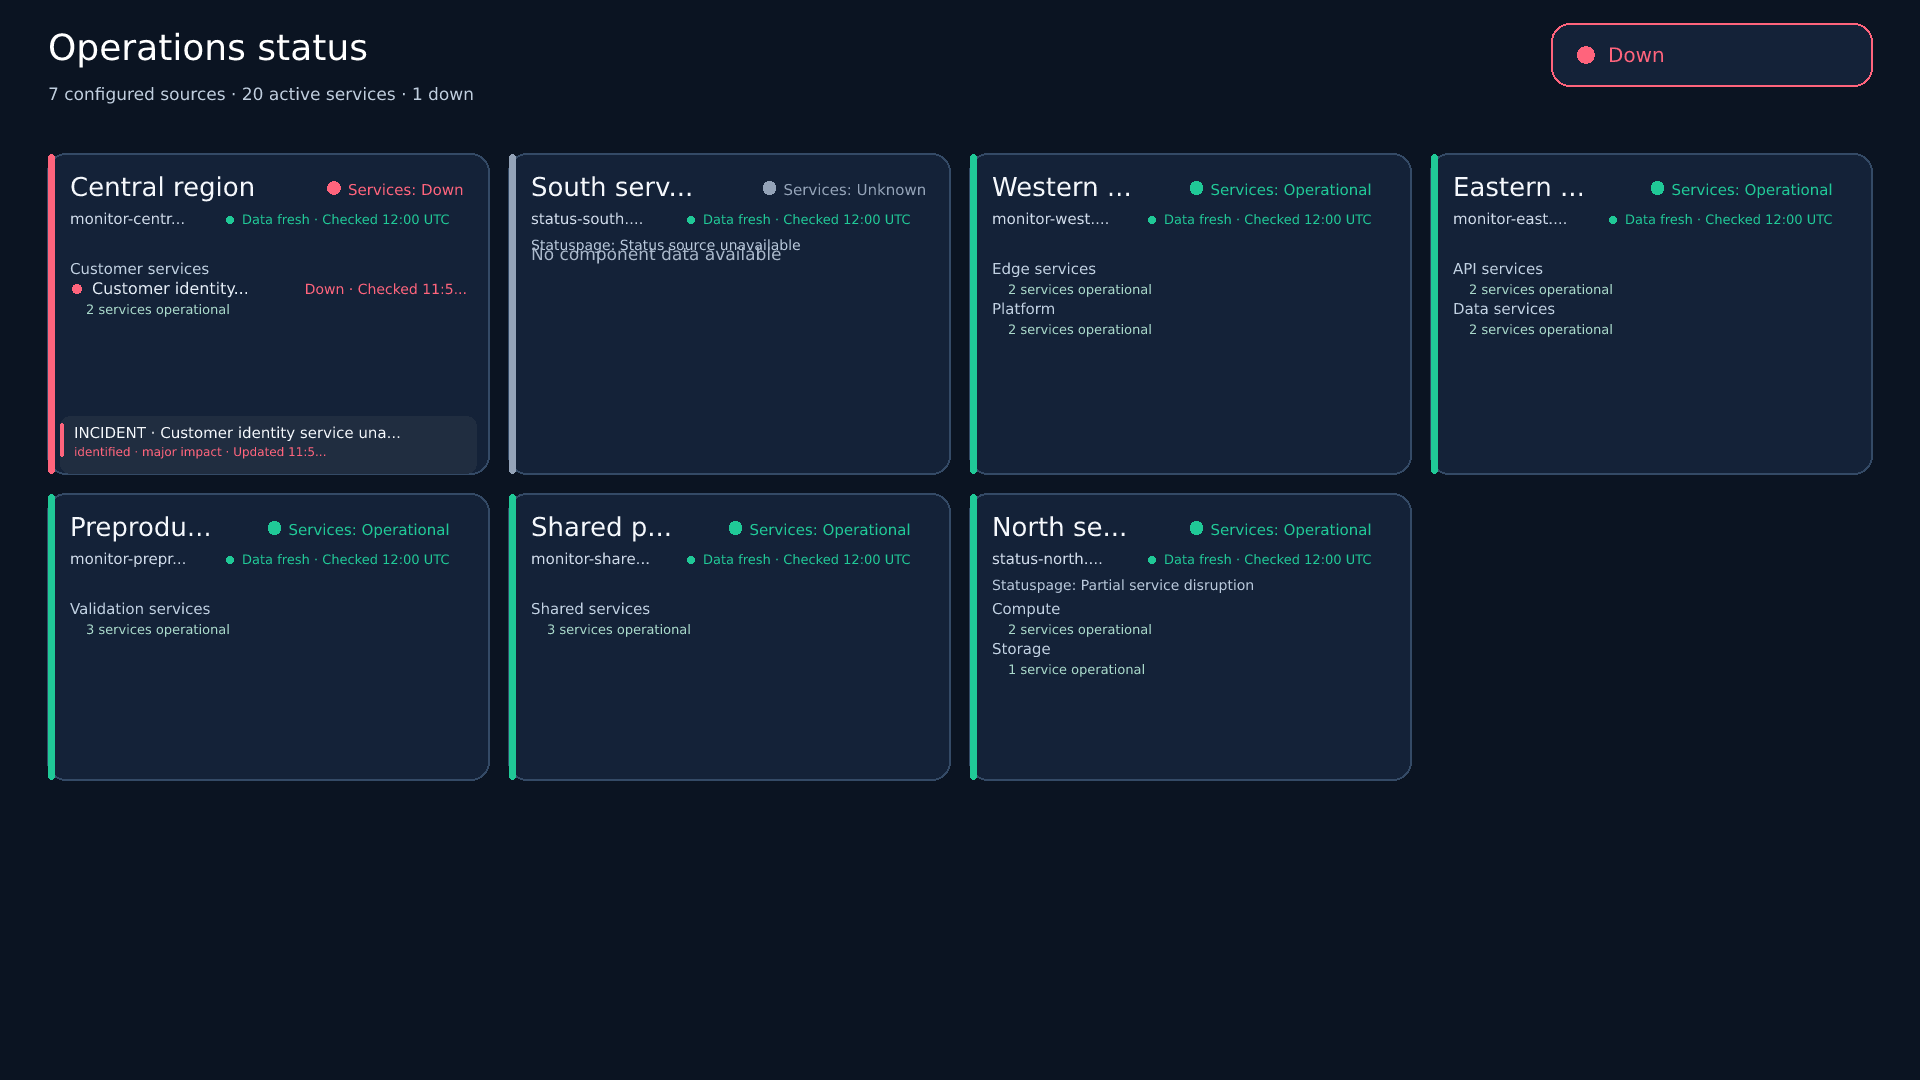
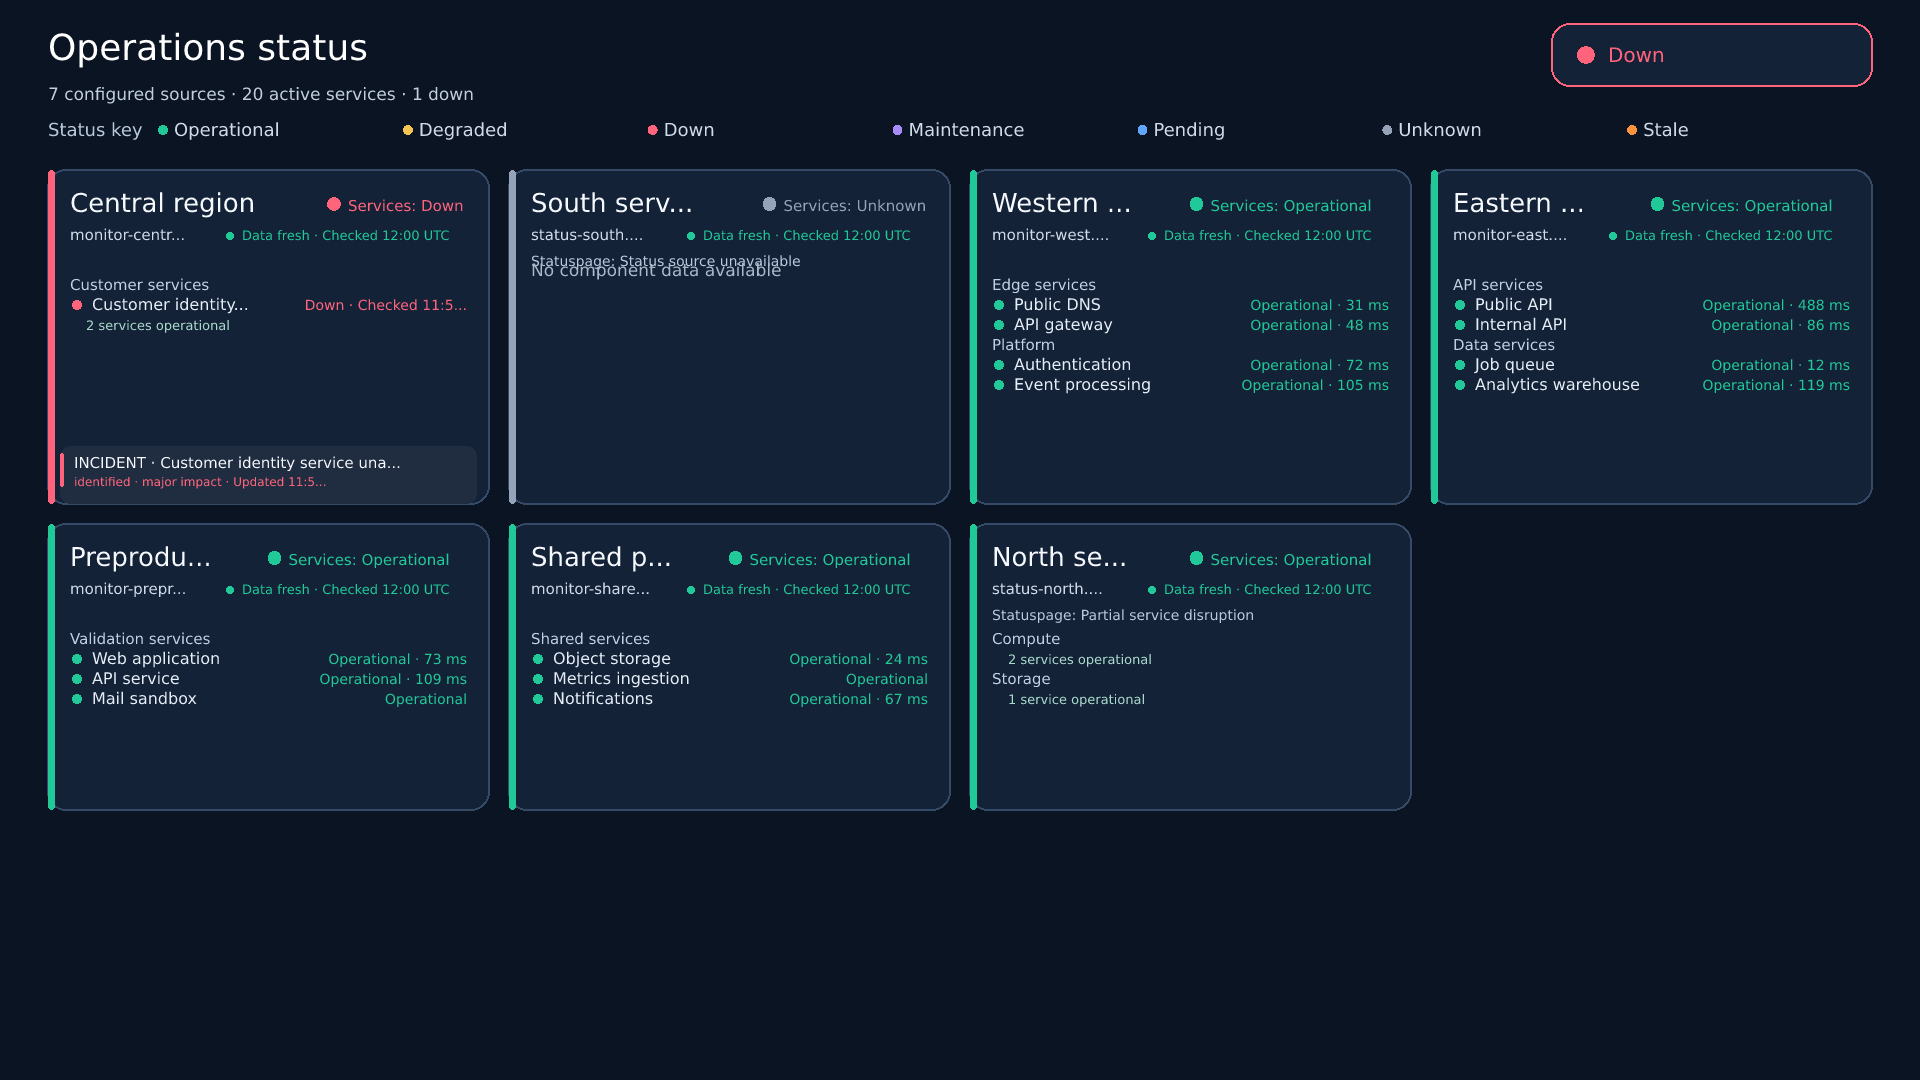
Improve Uptime Kuma dashboard readability

diff --git a/workers/device-sync/src/api-dashboard/render.ts b/workers/device-sync/src/api-dashboard/render.ts
@@ -1,6 +1,6 @@
 import { Resvg, initWasm } from "@resvg/resvg-wasm";
 import { healthLabel, overallHealth, type DashboardSource, type Health } from "./model.ts";
-import { svgEventPanel, svgFreshnessBadge, svgGroupSummary, svgPanel, svgServiceRow, svgStatusBadge, svgStatusDot, svgText, truncateText, type SvgDashboardEvent } from "./render-components.ts";
+import { svgEventPanel, svgFreshnessBadge, svgGroupSummary, svgHealthLegend, svgPanel, svgServiceRow, svgStatusBadge, svgStatusDot, svgText, truncateText, type SvgDashboardEvent } from "./render-components.ts";
 
 const MAX_PIXELS = 3840 * 2160;
 const MAX_PNG_BYTES = 32 * 1024 * 1024;
@@ -69,6 +69,15 @@ function buildServiceRows(source: DashboardSource): ServiceDisplayRow[] {
       issues.sort((a, b) => healthOrder(a.status) - healthOrder(b.status) || (a.componentOrder ?? 0) - (b.componentOrder ?? 0));
       for (const component of issues) rows.push({ kind: "service", component });
       if (operationalCount) rows.push({ kind: "summary", count: operationalCount, history: recentGroupChecks(components.filter((component) => component.status === "operational"), source.fetchedAt) });
+    } else if (source.provider === "uptime-kuma" && components.length <= 16 && components.some((component) => component.history?.length)) {
+      rows.push({ kind: "summary", count: operationalCount, history: recentGroupChecks(components, source.fetchedAt) });
+      for (const component of components) rows.push({ kind: "service", component });
+    } else if (source.provider === "uptime-kuma" && components.length <= 16) {
+      for (const component of components) rows.push({ kind: "service", component });
+    } else if (source.provider === "uptime-kuma") {
+      const visible = components.slice(0, 16);
+      for (const component of visible) rows.push({ kind: "service", component });
+      rows.push({ kind: "summary", count: components.length - visible.length, history: recentGroupChecks(components.slice(visible.length), source.fetchedAt) });
     } else rows.push({ kind: "summary", count: operationalCount, history: recentGroupChecks(components, source.fetchedAt) });
   };
   const seenServices = new Set<string>();
@@ -186,9 +195,12 @@ function card(source: DashboardSource, x: number, y: number, width: number, heig
     const changedTime = formatClock(row.component.statusChangedAt);
     const sampledTime = formatClock(row.component.sampledAt);
     const stateChangeTime = changedTime && ["down", "degraded", "maintenance"].includes(status) ? changedTime : undefined;
-    const statusMeta = stateChangeTime ? `Since ${stateChangeTime}` : sampledTime ? `Checked ${sampledTime}` : undefined;
+    const statusMeta = [
+      stateChangeTime ? `Since ${stateChangeTime}` : status !== "operational" && sampledTime ? `Checked ${sampledTime}` : undefined,
+      typeof row.component.latencyMs === "number" && Number.isFinite(row.component.latencyMs) ? `${Math.round(row.component.latencyMs)} ms` : undefined,
+    ].filter(Boolean).join(" · ") || undefined;
     const right = x + width - pad;
-    svg += svgServiceRow({ x: left, y: cy, right, scale, name, status: statusText, color, statusMeta, compact });
+    svg += svgServiceRow({ x: left, y: cy, right, scale, name, status: statusText, color, statusMeta, compact, showStatus: true });
   });
   if (hiddenServices || hiddenGroups) {
     const message = [hiddenGroups ? `${hiddenGroups} more groups` : "", hiddenServices ? `${hiddenServices} more services` : ""].filter(Boolean).join(" · ");
@@ -208,7 +220,7 @@ export function dashboardSVG(sources: DashboardSource[], width = 1920, height = 
   const scale = Math.min(width / 1920, height / 1080);
   const pad = 48 * scale;
   const gap = 20 * scale;
-  const headerH = 154 * scale;
+  const headerH = 170 * scale;
   const columns = Math.min(sources.length || 1, 4, Math.max(1, Math.floor((width - 2 * pad + gap) / 430)));
   const cardW = (width - 2 * pad - gap * (columns - 1)) / columns;
   const rows = Math.ceil(sources.length / columns);
@@ -242,6 +254,7 @@ export function dashboardSVG(sources: DashboardSource[], width = 1920, height = 
   const summary = `${sources.length} configured ${sources.length === 1 ? "source" : "sources"} · ${totalServices} active ${totalServices === 1 ? "service" : "services"}${disabledSources ? ` · ${disabledSources} disabled ${disabledSources === 1 ? "source" : "sources"}` : ""} · ${reportedIssues.length ? reportedIssues.join(" · ") : healthySummary}`;
   svg += `<text x="${pad}" y="${100 * scale}" fill="#c0cede" font-family="Ribbon Sans" font-size="${17 * scale}">${svgText(summary)}</text>`;
   svg += svgStatusBadge(width - pad - 320 * scale, 24 * scale, 320 * scale, 62 * scale, scale, healthLabel[overall], colors[overall]);
+  svg += svgHealthLegend(pad, 136 * scale, width - 2 * pad, scale);
   if (staleSources) svg += `<text x="${width - pad - 320 * scale}" y="${112 * scale}" fill="#ffbd78" font-family="Ribbon Sans" font-size="${15 * scale}" font-weight="700">${staleSources} source${staleSources === 1 ? "" : "s"} stale or unavailable</text>`;
   if (!sources.length) svg += `<text x="${pad}" y="${(headerH + 45 * scale)}" fill="#c0cede" font-family="Ribbon Sans" font-size="${20 * scale}">No status sources are configured.</text>`;
   orderedSources.forEach((source, index) => {

diff --git a/workers/device-sync/src/api-dashboard/render-components.ts b/workers/device-sync/src/api-dashboard/render-components.ts
@@ -11,6 +11,25 @@ export function svgStatusDot(cx: number, cy: number, radius: number, color: stri
   return `<circle cx="${cx}" cy="${cy}" r="${radius}" fill="${svgText(color)}"/>`;
 }
 
+const healthLegendItems = [
+  ["Operational", "#20c997"], ["Degraded", "#f6c453"], ["Down", "#ff647c"],
+  ["Maintenance", "#a78bfa"], ["Pending", "#60a5fa"], ["Unknown", "#94a3b8"], ["Stale", "#fb923c"],
+] as const;
+
+/** Shared, visible status key for dashboards that use color to encode health. */
+export function svgHealthLegend(x: number, y: number, width: number, scale: number): string {
+  const s = (value: number) => value * scale;
+  const labelWidth = s(110);
+  const itemWidth = (width - labelWidth) / healthLegendItems.length;
+  let result = `<g role="group" aria-label="Status key"><text x="${x}" y="${y}" fill="#b9c9dc" font-size="${s(18)}" font-weight="700">Status key</text>`;
+  healthLegendItems.forEach(([label, color], index) => {
+    const itemX = x + labelWidth + index * itemWidth;
+    result += svgStatusDot(itemX + s(5), y - s(6), s(5), color);
+    result += `<text x="${itemX + s(16)}" y="${y}" fill="#d0dbea" font-size="${s(18)}">${label}</text>`;
+  });
+  return `${result}</g>`;
+}
+
 export function svgPanel(x: number, y: number, width: number, height: number, scale: number, accentColor: string): string {
   return `<rect x="${x}" y="${y}" width="${width}" height="${height}" rx="${18 * scale}" fill="#142238" stroke="#344a66" stroke-width="${2 * scale}"/><rect x="${x}" y="${y}" width="${7 * scale}" height="${height}" rx="${4 * scale}" fill="${svgText(accentColor)}"/>`;
 }
@@ -24,9 +43,9 @@ export function svgFreshnessBadge(x: number, y: number, scale: number, label: st
   return `${svgStatusDot(x, y - 4 * scale, 4 * scale, color)}<text x="${x + 12 * scale}" y="${y}" fill="${svgText(color)}" font-size="${13 * scale}" font-weight="700">${svgText(label)}</text>`;
 }
 
-export function svgServiceRow(input: { x: number; y: number; right: number; scale: number; name: string; status: string; color: string; statusMeta?: string; compact?: boolean }): string {
-  const { x, y, right, scale, name, status, color, statusMeta, compact = false } = input;
-  const statusLabel = status === "Operational" ? "" : [status, statusMeta].filter(Boolean).join(" · ");
+export function svgServiceRow(input: { x: number; y: number; right: number; scale: number; name: string; status: string; color: string; statusMeta?: string; compact?: boolean; showStatus?: boolean }): string {
+  const { x, y, right, scale, name, status, color, statusMeta, compact = false, showStatus = false } = input;
+  const statusLabel = status === "Operational" && !showStatus ? "" : [status, statusMeta].filter(Boolean).join(" · ");
   const statusCharWidth = scale * (compact ? 6.5 : 8.5);
   const maxStatusChars = Math.floor((right - x) * .48 / statusCharWidth);
   const shownStatus = statusLabel ? truncateText(statusLabel, maxStatusChars) : "";
@@ -43,8 +62,9 @@ export function svgGroupSummary(input: { x: number; y: number; right: number; sc
   const plural = count === 1 ? "service" : "services";
   let result = `<text x="${x}" y="${y}" fill="#a9d9ca" font-size="${scale * 13}">${svgText(`${count} ${plural} ${label}`)}</text>`;
   if (history.length) {
-    result += `<text x="${right - scale * 156}" y="${y}" text-anchor="end" fill="#8497ad" font-size="${scale * 10}">24h</text>`;
-    result += svgCheckHistory({ x: right - scale * 150, y: y - scale * 10, width: scale * 144, height: scale * 10, states: history, scale });
+    result += `<text x="${right - scale * 178}" y="${y}" text-anchor="end" fill="#c0cede" font-size="${scale * 14}">24h</text>`;
+    result += svgCheckHistory({ x: right - scale * 166, y: y - scale * 10, width: scale * 136, height: scale * 10, states: history, scale });
+    result += `<text x="${right}" y="${y}" text-anchor="end" fill="#c0cede" font-size="${scale * 12}">Now</text>`;
   }
   return result;
 }
@@ -96,5 +116,7 @@ export function svgCheckHistory(input: { x: number; y: number; width: number; he
   if (!states.length) return "";
   const gap = scale * 2;
   const cellWidth = (width - gap * (states.length - 1)) / states.length;
-  return `<g aria-label="Recent checks"><title>Recent checks</title>${states.map((state, index) => `<rect x="${x + index * (cellWidth + gap)}" y="${y}" width="${cellWidth}" height="${height}" rx="${scale * 2}" fill="${palette[state] ?? palette.unknown}"/>`).join("")}</g>`;
+  const labels: Record<string, string> = { operational: "Operational", degraded: "Degraded", down: "Down", maintenance: "Maintenance", pending: "Pending", unknown: "Unknown", stale: "Stale" };
+  const historyDescription = `Recent checks from 24 hours ago to now: ${states.map((state) => labels[state] ?? "Unknown").join(", ")}`;
+  return `<g role="img" aria-label="${svgText(historyDescription)}"><title>${svgText(historyDescription)}</title>${states.map((state, index) => `<rect x="${x + index * (cellWidth + gap)}" y="${y}" width="${cellWidth}" height="${height}" rx="${scale * 2}" fill="${palette[state] ?? palette.unknown}"/>`).join("")}</g>`;
 }

diff --git a/workers/device-sync/src/api-dashboard/render.test.ts b/workers/device-sync/src/api-dashboard/render.test.ts
@@ -1,7 +1,7 @@
 import assert from "node:assert/strict";
 import { test } from "node:test";
 import { dashboardSVG, renderDashboardPNG } from "./render.ts";
-import { svgCheckHistory, svgEventPanel, svgFreshnessBadge, svgGroupSummary, svgPanel, svgServiceRow, svgStatusBadge, svgStatusDot, svgText, truncateText } from "./render-components.ts";
+import { svgCheckHistory, svgEventPanel, svgFreshnessBadge, svgGroupSummary, svgHealthLegend, svgPanel, svgServiceRow, svgStatusBadge, svgStatusDot, svgText, truncateText } from "./render-components.ts";
 import type { DashboardSource } from "./model.ts";
 
 const sample: DashboardSource = { id: "source-1", provider: "uptime-kuma", displayName: "<SCRIPT>alert('x')</SCRIPT>", fetchedAt: "2026-01-01T00:00:00.000Z", freshness: "fresh", status: "operational", statusDescription: "All systems operational", incidents: [], maintenance: [], components: [
@@ -94,16 +94,66 @@ test("shared SVG primitives escape text and render status panels, dots, and badg
   assert.doesNotMatch(svgServiceRow({ x: 10, y: 30, right: 600, scale: 1, name: "API", status: "Operational", color: "#20c997" }), /120 ms/);
 });
 
-test("healthy services collapse into auditable group summaries and omit per-row latency", () => {
+test("health legend names every state so color is never the only status cue", () => {
+  const legend = svgHealthLegend(12, 24, 1000, 1);
+  for (const state of ["Operational", "Degraded", "Down", "Maintenance", "Pending", "Unknown", "Stale"]) {
+    assert.match(legend, new RegExp(state));
+  }
+  assert.match(legend, /Status key/);
+});
+
+test("history strip explains its time direction and each sampled status", () => {
+  const history = svgCheckHistory({ x: 10, y: 20, width: 144, height: 10, states: ["operational", "down"] });
+  assert.match(history, /24 hours ago/);
+  assert.match(history, /now/i);
+  assert.match(history, /Operational/);
+  assert.match(history, /Down/);
+});
+
+test("dashboard includes a visible status key and gives history strips a now label", () => {
+  const historical: DashboardSource = {
+    ...sample,
+    fetchedAt: "2026-01-02T03:05:00.000Z",
+    components: [{ ...sample.components[0], status: "operational", history: [
+      { at: "2026-01-01T04:00:00.000Z", status: "down" },
+      { at: "2026-01-02T03:04:00.000Z", status: "operational" },
+    ] }],
+  };
+  const svg = dashboardSVG([historical]);
+  assert.match(svg, /Status key/);
+  assert.match(svg, />Now</);
+  assert.match(svg, /24 hours ago/);
+});
+
+test("large healthy Uptime Kuma groups show representative monitors and summarize the remainder", () => {
   const healthy: DashboardSource = {
     ...sample,
     groups: [{ id: "g", name: "Primary group", order: 0 }],
-    components: Array.from({ length: 8 }, (_, index) => ({ ...sample.components[0], id: String(index), name: `Service ${index}`, latencyMs: 99 })),
+    components: Array.from({ length: 32 }, (_, index) => ({ ...sample.components[0], id: String(index), name: `Service ${index}`, latencyMs: 99 })),
   };
   const svg = dashboardSVG([healthy]);
   assert.match(svg, /Primary group/);
-  assert.match(svg, /8 services operational/);
-  assert.doesNotMatch(svg, /99 ms|Service 0/);
+  assert.match(svg, /16 services operational/);
+  assert.match(svg, /Service 0/);
+  assert.match(svg, /Service 15/);
+  assert.doesNotMatch(svg, /Service 16/);
+  assert.match(svg, /99 ms/);
+});
+
+test("small Uptime Kuma groups list monitor names, state, and response time", () => {
+  const smallGroup: DashboardSource = {
+    ...sample,
+    groups: [{ id: "g", name: "West Europe", order: 0 }],
+    components: [
+      { ...sample.components[0], id: "web", name: "Public web", latencyMs: 84, sampledAt: "2026-01-01T12:30:00.000Z" },
+      { ...sample.components[0], id: "api", name: "API", latencyMs: 121, sampledAt: "2026-01-01T12:30:00.000Z" },
+    ],
+  };
+  const svg = dashboardSVG([smallGroup]);
+  assert.match(svg, /Public web/);
+  assert.match(svg, /API/);
+  assert.match(svg, /Operational/);
+  assert.match(svg, /84 ms/);
 });
 
 test("Kuma group summaries show a labelled 24-hour check strip when history is available", () => {
@@ -117,7 +167,7 @@ test("Kuma group summaries show a labelled 24-hour check strip when history is a
   };
   const svg = dashboardSVG([historical]);
   assert.match(svg, />24h<\/text>/);
-  assert.match(svg, /<title>Recent checks<\/title>/);
+  assert.match(svg, /<title>Recent checks from 24 hours ago to now:/);
   assert.match(svg, /#ff647c/);
 });
 
@@ -137,7 +187,7 @@ test("affected service rows retain a last sample timestamp while healthy rows su
   assert.match(svg, /Checked 12:31 UTC/);
   assert.doesNotMatch(svg, /Down · Since 12:30 UTC · Checked/);
   assert.match(svg, /1 service operational/);
-  assert.doesNotMatch(svg, /87 ms/);
+  assert.match(svg, /87 ms/);
 });
 
 test("source and event freshness labels distinguish updates from failed checks", () => {

diff --git a/docs/api-driven-dashboards.md b/docs/api-driven-dashboards.md
@@ -117,14 +117,18 @@ cosmetic current-time stamp, so an unchanged status image is byte stable.
 
 Healthy monitors are summarized by group with exact operational counts; affected
 rows sort ahead of those summaries, with excess rows counted in the overflow
-label. Kuma rows for down, degraded, or maintenance states show their last
-transition time when heartbeat history contains one. Pending, unknown, and stale
-rows show their latest sample time. The default dashboard omits individual ping latency.
+label. Small healthy Kuma groups list each monitor with its state and available
+response time. Larger healthy Kuma groups list up to 16 monitors and summarize
+the remainder. Kuma rows for down, degraded, or maintenance states show their
+last transition time when heartbeat history contains one. Pending, unknown, and
+stale rows show their latest sample time.
 Group summaries can show a 24-hour check strip from available Kuma heartbeats;
 missing two-hour buckets are shown as unknown, and the strip does not claim an
 uptime percentage. Shared SVG components in
 `src/api-dashboard/render-components.ts` provide escaped status dots, badges,
-panels, service rows, group summaries, event panels, and check-history strips.
+panels, service rows, group summaries, event panels, a named status key, and
+check-history strips. The status key names each health color, and history strips
+show their 24-hour-to-now direction.
 Incident and maintenance events have a dedicated high-contrast area on each
 source card. Scheduled maintenance keeps its start time separate from its last
 update and shows both when available. Major incidents use a stronger severity
